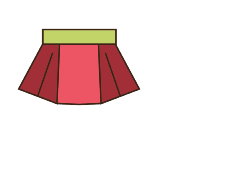
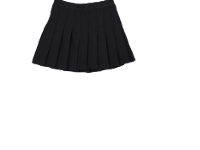
html clothes

Changed region(s): [[0.06, 0.0, 0.69, 0.64]]

diff --git a/index.html b/index.html
@@ -59,7 +59,7 @@
 <div class="droptarget" id="legs2">
       </div>
 <div class="droptarget" id="pant-space">
-  <div draggable="true" class="dragtarget" id="item-3"><img id="shorts" src="100short.png"/><img id="skirt" src="skirt2.png"/></div>
+  <div draggable="true" class="dragtarget" id="item-3"><img id="shorts" src="100short.png"/><img id="skirt" src="skirt.png"/></div>
 </div>
 
 <div class="droptarget" id="feet">
